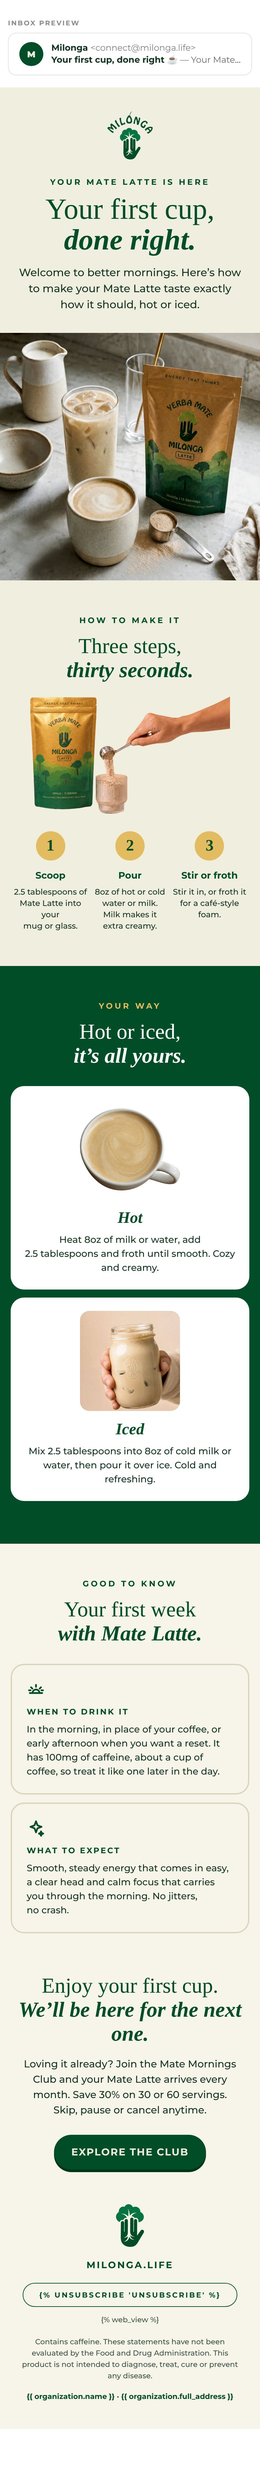
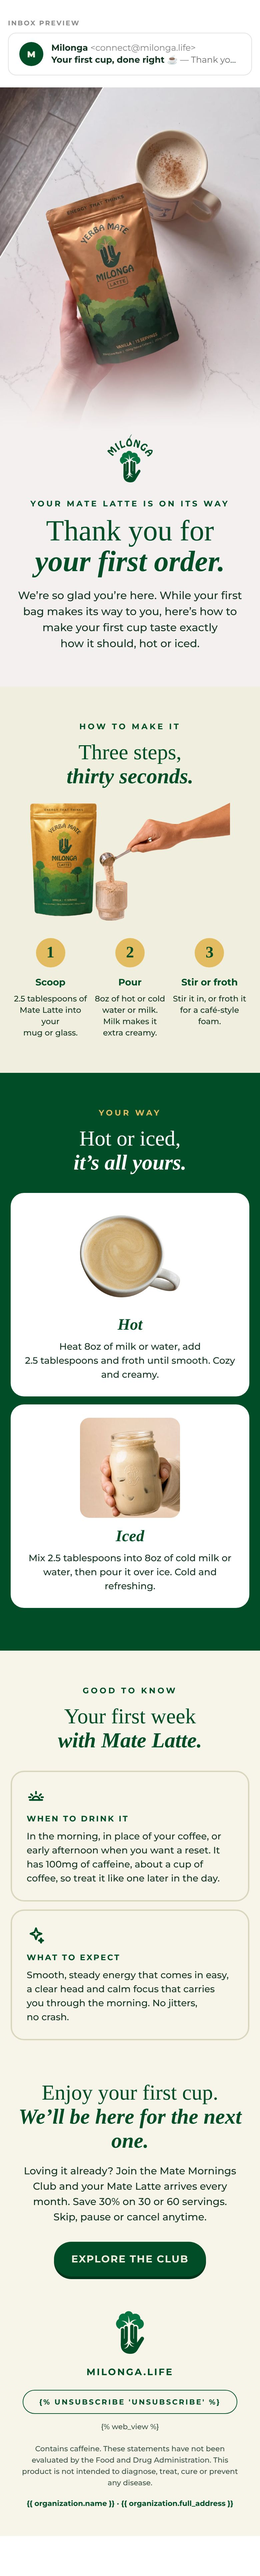
Post-purchase E1: hosted thank-you hero, first-order trigger in README
Claude-Session: https://claude.ai/code/session_01NhEtXPnfeCJfN73SqBkUZ5

diff --git a/email-ds/exports/klaviyo/pp1-e1/pp1-e1.html b/email-ds/exports/klaviyo/pp1-e1/pp1-e1.html
@@ -7,8 +7,8 @@
 <title>Your first cup, done right ☕</title>
 <!--
   POST-PURCHASE · ONE-TIME MATE LATTE BUYERS · EMAIL 1 · "Your first cup, done right ☕"
-  Preview text: Your Mate Latte is here. Here’s how to make it just right, hot or iced.
-  Send: on delivery (Delivered Shipment, Items contains "Mate Latte"); not subscribers.
+  Preview text: Thank you for your first order. Here’s how to make your first cup just right, hot or iced.
+  Send: right after their first Mate Latte order (Placed Order); one-time buyers, not subscribers.
   GENERATED by scripts/make-pp1-e1.mjs. Edit the script, not this file.
 -->
 <style>
@@ -37,6 +37,7 @@
   @media (prefers-color-scheme: dark) {
     .bg-white { background-color:#FFFFFF !important; }
     .bg-page { background-color:#F0EFDF !important; }
+    .bg-marble { background-color:#F3F0EF !important; }
     .bg-forest { background-color:#004D27 !important; }
     .bg-cream { background-color:#F7F4EA !important; }
   }
@@ -47,15 +48,16 @@
 <tr><td align="center">
 <table role="presentation" class="wrap" width="600" cellpadding="0" cellspacing="0" border="0" style="width:600px;max-width:600px;table-layout:fixed;">
 
-<!-- ── 1 · YOUR FIRST CUP, DONE RIGHT ──────────────────────────────── -->
-<tr><td class="pad bg-page" align="center" bgcolor="#F0EFDF" style="background-color:#F0EFDF;padding:36px 40px 30px;font-family:'Montserrat','Helvetica Neue',Helvetica,Arial,sans-serif;">
+<!-- ── 1 · THANK YOU (Bernat's photo is the section's background: it fades
+     into light marble, and the logo, title and intro sit on that marble) ── -->
+<tr><td class="bg-marble" bgcolor="#F3F0EF" style="background-color:#F3F0EF;padding:0;font-size:0;line-height:0;"><img class="full" src="https://cdn.klaviyomail.com/company/TwvSnK/images/820ef7bb-4700-417b-9923-3f4742cfcbd6.jpeg" width="600" height="800" alt="A hand holding the Mate Latte pouch over a marble counter, a latte beside it" style="display:block;width:600px;height:800px;border:0;"></td></tr>
+<tr><td class="pad bg-marble" align="center" bgcolor="#F3F0EF" style="background-color:#F3F0EF;padding:0 40px 52px;font-family:'Montserrat','Helvetica Neue',Helvetica,Arial,sans-serif;">
 <a href="https://milonga.life/?utm_source=klaviyo&amp;utm_medium=email&amp;utm_campaign=post_purchase_mate_latte&amp;utm_content=pp1_logo" target="_blank"><img class="hero-logo" src="https://cdn.klaviyomail.com/company/TwvSnK/images/b6a03046-605a-4e87-b22f-a530be1633e3.png" width="85" height="90" alt="Milonga" style="display:block;margin:0 auto;width:85px;height:90px;border:0;"></a>
-<div style="padding-top:26px;"><div style="font-size:12px;line-height:16px;font-weight:700;letter-spacing:3px;text-transform:uppercase;color:#004D27;">Your Mate Latte is here</div></div>
-<div class="h-hero" style="padding-top:10px;font-family:'Times New Roman',Times,Georgia,serif;font-size:54px;line-height:58px;font-weight:400;color:#004D27;">Your first cup,</div>
-<div class="h-hero" style="font-family:'Times New Roman',Times,Georgia,serif;font-size:54px;line-height:58px;font-weight:700;font-style:italic;color:#004D27;">done right.</div>
-<div style="font-size:16px;line-height:24px;font-weight:500;color:#12331F;padding-top:14px;">Welcome to better mornings. Here&rsquo;s how to make your Mate Latte taste exactly <span style="white-space:nowrap;">how it should, hot or iced.</span></div>
+<div style="padding-top:24px;"><div style="font-size:12px;line-height:16px;font-weight:700;letter-spacing:3px;text-transform:uppercase;color:#004D27;">Your Mate Latte is on its way</div></div>
+<div class="h-hero" style="padding-top:10px;font-family:'Times New Roman',Times,Georgia,serif;font-size:52px;line-height:56px;font-weight:400;color:#004D27;">Thank you for</div>
+<div class="h-hero" style="font-family:'Times New Roman',Times,Georgia,serif;font-size:52px;line-height:56px;font-weight:700;font-style:italic;color:#004D27;">your first order.</div>
+<div style="font-size:16px;line-height:24px;font-weight:500;color:#12331F;padding-top:16px;">We&rsquo;re so glad you&rsquo;re here. While your first bag makes its way to you, here&rsquo;s how to make your first cup taste exactly <span style="white-space:nowrap;">how it should, hot or iced.</span></div>
 </td></tr>
-<tr><td class="bg-page" bgcolor="#F0EFDF" style="background-color:#F0EFDF;padding:0;font-size:0;line-height:0;"><img class="full" src="https://cdn.klaviyomail.com/company/TwvSnK/images/8f20c2da-48a7-419c-a7c4-6d41ac6beca2.jpeg" width="600" height="570" alt="A hot and an iced Mate Latte on a kitchen counter, beside the pouch and a scoop" style="display:block;width:600px;height:570px;border:0;"></td></tr>
 
 <!-- ── 2 · HOW TO MAKE IT: THREE STEPS ─────────────────────────────── -->
 <tr><td class="pad bg-page" align="center" bgcolor="#F0EFDF" style="background-color:#F0EFDF;padding:52px 40px 0;font-family:'Montserrat','Helvetica Neue',Helvetica,Arial,sans-serif;">
